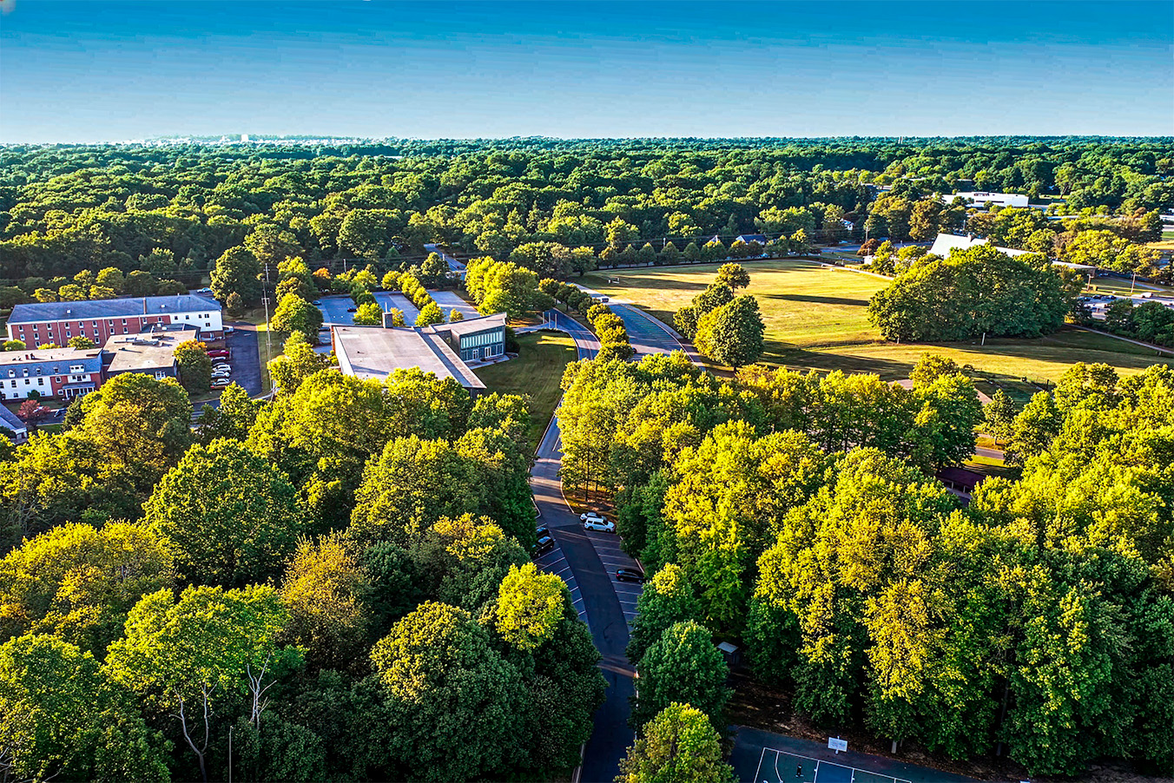
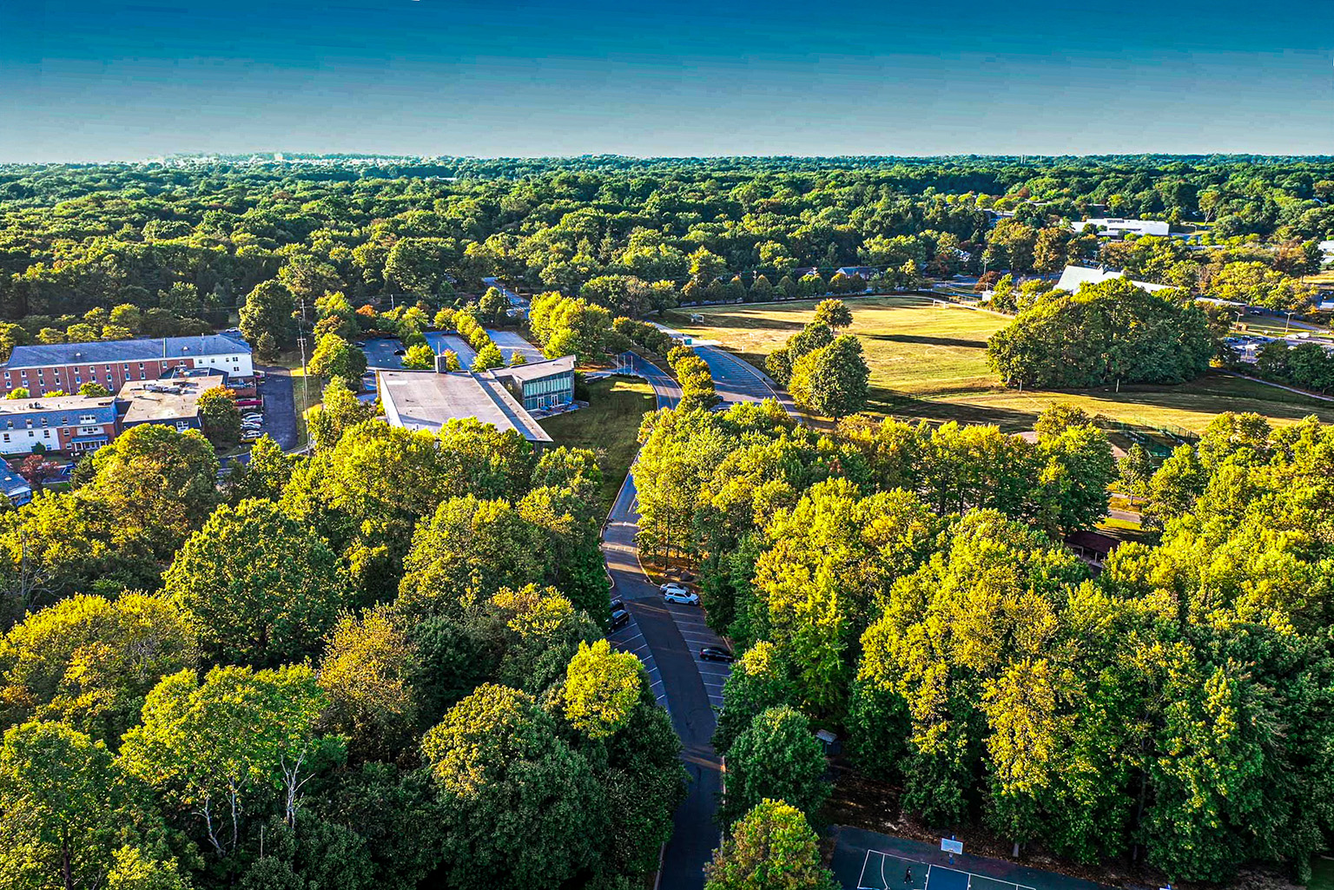
Update aerial and newsletter hero images

diff --git a/styles/main.css b/styles/main.css
@@ -804,7 +804,13 @@ button:disabled,
   color: var(--white);
   background:
     linear-gradient(90deg, rgba(3, 31, 61, 0.92), rgba(8, 44, 84, 0.76)),
-    url("../assets/neighborhood-street.jpg") center / cover;
+    url("../assets/neighborhood-aerial.jpg") center 46% / cover;
+}
+
+.newsletter-detail-hero {
+  background:
+    linear-gradient(90deg, rgba(3, 31, 61, 0.92), rgba(8, 44, 84, 0.7)),
+    url("../assets/neighborhood-library.jpg") 42% center / cover;
 }
 
 .page-hero h1 {

diff --git a/content/newsletters/spring-2026.html b/content/newsletters/spring-2026.html
@@ -18,7 +18,7 @@
     </header>
 
     <main>
-      <section class="page-hero">
+      <section class="page-hero newsletter-detail-hero">
         <div class="container">
           <h1>Spring 2026 Newsletter</h1>
           <p>Blue Rock Manor Civic Association newsletter for residents.</p>
